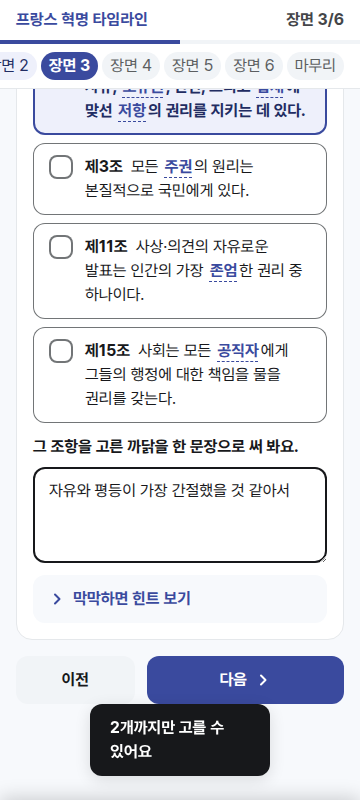
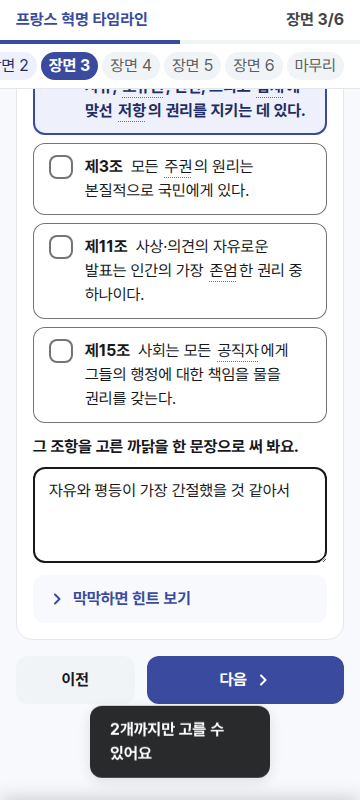
낱말 밑줄을 화면마다 낱말당 첫 번째만 긋도록 unique 옵션 추가
Claude-Session: https://claude.ai/code/session_01S7nQYC6sbmivJyphZxCUcg

diff --git a/snippets/glossary.js b/snippets/glossary.js
@@ -11,6 +11,7 @@
  * - 건드리지 않는 곳: textarea·input·button·a·label·summary(눌러야 하는 것 안에 또 누르는 것을 넣지 않는다), 제목(h1~h6),
  *   onclick 속성·tab 역할·nav 안, 이미 .term 인 곳, 풀이 시트, 이탈 경고 배너, skip 옵션으로 넘긴 선택자, data-no-gloss 속성이 붙은 곳.
  * - addEventListener로 눌리는 span/div(예: 진행 단계 칩)는 속성으로 알아볼 수 없다. 그런 곳은 start의 skip 옵션으로 선택자를 넘긴다.
+ * - unique:true 옵션이면 문단이 아니라 화면(root) 전체에서 낱말마다 첫 번째만 긋는다(밑줄이 많아 읽기 불편할 때).
  * - 같은 낱말은 한 문단(블록)에서 첫 번째만 밑줄을 긋는다. 앱이 직접 입힌 .term(예: {용어})도 센다.
  * - 한 글자 키(예: 율)는 글자 앞뒤가 한글이면(효율·비율) 건너뛴다. 뒤에 조사(에·은·는·이·가·을·를·의·로·과·와·도)만 붙는 경우는 허용한다.
  * - 사료 원문·번역은 바꾸지 않는다(글자는 그대로, 감싸기만 한다). textContent는 달라지지 않는다.
@@ -19,7 +20,7 @@
 (function () {
   var terms = {};
   var re = null;
-  var cfg = { root: null, tag: 'button', sheet: true, style: true, skip: [] };
+  var cfg = { root: null, tag: 'button', sheet: true, style: true, skip: [], unique: false };
   var skipSel = '';
   var observer = null;
   var scheduled = false;
@@ -57,7 +58,7 @@
   function wrapNode(node, seen) {
     var text = node.nodeValue;
     var parent = node.parentElement;
-    var block = parent.closest(BLOCK) || document.body;
+    var block = cfg.unique ? cfg.root : (parent.closest(BLOCK) || document.body); // unique: 화면(root) 전체에서 낱말마다 첫 번째만
     var used = seen.get(block);
     if (!used) {
       used = {};
@@ -177,6 +178,7 @@
     if (opts.sheet === false) cfg.sheet = false;
     if (opts.style === false) cfg.style = false;
     cfg.skip = opts.skip || [];
+    if (opts.unique) cfg.unique = true;
     cfg.root = opts.root || document.body;
     skipSel = BASE_SKIP + (cfg.skip.length ? ',' + cfg.skip.join(',') : '');
     buildRegex();

diff --git a/app.js b/app.js
@@ -527,7 +527,7 @@ function init() {
   }
   if (state.step !== 'intro' && !/^\d{5}$/.test(state.sid)) state.step = 'intro';
   if (state.step !== 'intro') startGuard();
-  Glossary.start({ terms: GLOSSARY, skip: ['.topbar', '.recap .a', '.modal'] });
+  Glossary.start({ terms: GLOSSARY, unique: true, skip: ['.topbar', '.recap .a', '.modal'] });
   render();
 }
 init();
